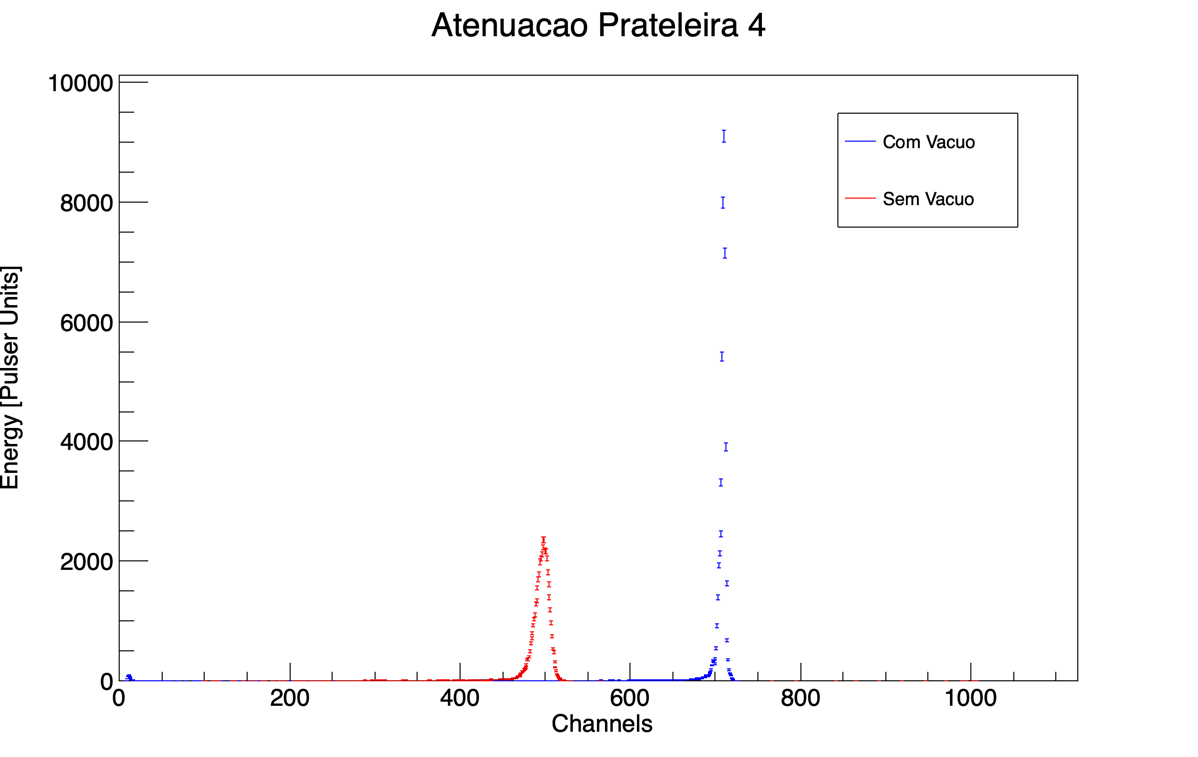
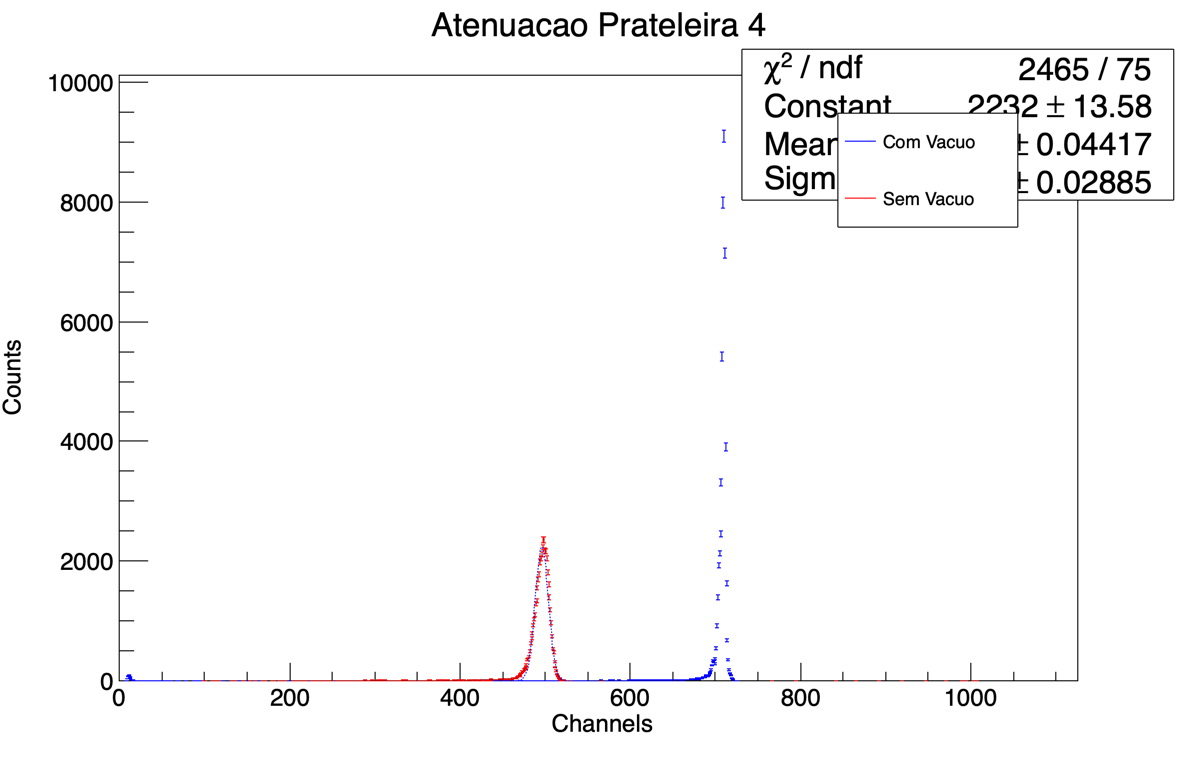
Ok

Changed region(s): [[0.803, 0.0608, 0.9883, 0.2734], [0.6177, 0.0608, 0.7412, 0.2734], [0.0, 0.3342, 0.0309, 0.6684]]

diff --git a/Alfa/main/analise.cpp b/Alfa/main/analise.cpp
@@ -208,7 +208,7 @@ int main(){
     c1.Clear();
     G_Cal5.Draw("AP");
     c1.Update();
-    c1.SaveAs("Graphs/Prateleira_4_c_vacuo.png");
+    //c1.SaveAs("Graphs/Prateleira_4_c_vacuo.png");
     c1.WaitPrimitive();
     gSystem->ProcessEvents();
 
@@ -231,7 +231,7 @@ int main(){
     c1.Clear();
     G_Cal6.Draw("AP");
     c1.Update();
-    c1.SaveAs("Graphs/Prateleira_4_s_vacuo.png");
+    //c1.SaveAs("Graphs/Prateleira_4_s_vacuo.png");
     c1.WaitPrimitive();
     gSystem->ProcessEvents();
 
@@ -254,7 +254,7 @@ int main(){
     c1.Clear();
     G_Cal7.Draw("AP");
     c1.Update();
-    c1.SaveAs("Graphs/Prateleira_8_c_vacuo.png");
+    //c1.SaveAs("Graphs/Prateleira_8_c_vacuo.png");
     c1.WaitPrimitive();
     gSystem->ProcessEvents();
 
@@ -277,7 +277,7 @@ int main(){
     c1.Clear();
     G_Cal8.Draw("AP");
     c1.Update();
-    c1.SaveAs("Graphs/Prateleira_8_s_vacuo.png");
+    //c1.SaveAs("Graphs/Prateleira_8_s_vacuo.png");
     c1.WaitPrimitive();
     gSystem->ProcessEvents();
 
@@ -309,13 +309,13 @@ int main(){
     }
 
     G_aten_8.SetLineColor(kBlue);
-    G_aten_8.SetTitle("Atenuacao Prateleira 8; Channels; Energy [Pulser Units] ");
+    G_aten_8.SetTitle("Atenuacao Prateleira 8; Channels; Counts ");
     G_aten_8.GetXaxis()->CenterTitle();
     G_aten_8.GetYaxis()->CenterTitle();
 
 
     G_aten_8_s.SetLineColor(kRed);
-    G_aten_8_s.SetTitle("Atenuacao Prateleira 8; Channels; Energy [Pulser Units] ");
+    G_aten_8_s.SetTitle("Atenuacao Prateleira 8; Channels; Counts ");
     G_aten_8_s.GetXaxis()->CenterTitle();
     G_aten_8_s.GetYaxis()->CenterTitle();
 
@@ -368,15 +368,24 @@ int main(){
     }
 
     G_aten_4.SetLineColor(kBlue);
-    G_aten_4.SetTitle("Atenuacao Prateleira 4; Channels; Energy [Pulser Units] ");
+    G_aten_4.SetTitle("Atenuacao Prateleira 4; Channels; Counts ");
     G_aten_4.GetXaxis()->CenterTitle();
     G_aten_4.GetYaxis()->CenterTitle();
 
 
     G_aten_4_s.SetLineColor(kRed);
-    G_aten_4_s.SetTitle("Atenuacao Prateleira 4; Channels; Energy [Pulser Units] ");
+    G_aten_4_s.SetTitle("Atenuacao Prateleira 4; Channels; Counts");
     G_aten_4_s.GetXaxis()->CenterTitle();
     G_aten_4_s.GetYaxis()->CenterTitle();
+
+    TF1 *f = new TF1("f", "gaus");
+    f->SetParameter(2000, 510);
+    f->SetLineColor(kBlue);
+    f->SetLineStyle(2);
+    f->SetLineWidth(2);
+    G_aten_4_s.Fit("f","","", 450, 550);
+
+
 
 
     TLegend leg2(0.7,0.7,0.85,0.85);
@@ -386,6 +395,7 @@ int main(){
     c1.Clear();
     G_aten_4.Draw("AP");
     G_aten_4_s.Draw("same P");
+    f->Draw("same P");
     leg2.Draw();
     c1.Update();
     c1.SaveAs("graphs/Atenuacao_4.png");
@@ -396,9 +406,9 @@ int main(){
     cout << "Counts com vacuo: " << counts_4_one << endl;
     cout << "Counts sem vacuo: " << counts_4_two << endl;
     cout << "Centroide com vácuo: 709.78 " <<  endl;
-    cout << "Centroide sem vácuo: -- "  << endl;
+    cout << "Centroide sem vácuo: "  << f->GetParameter("Mean")<< endl;
     cout << "FWHM com vácuo:   4.21 " << endl;
-    cout << "FWHM sem vácuo:  -- " << endl;
+    cout << "FWHM sem vácuo: " << f->GetParameter("Sigma") * 2.355 << endl;
 
 
 
